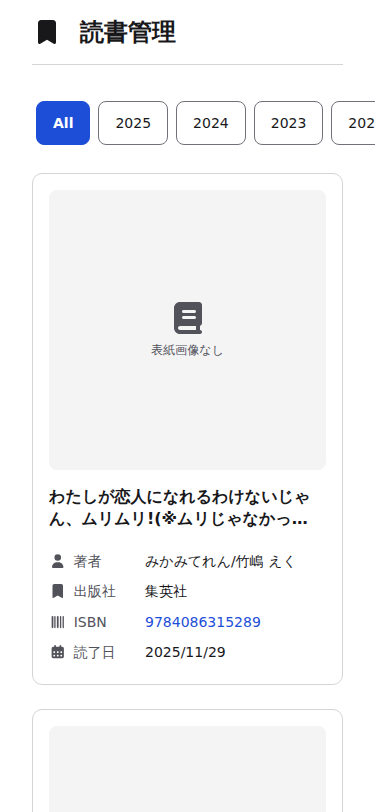
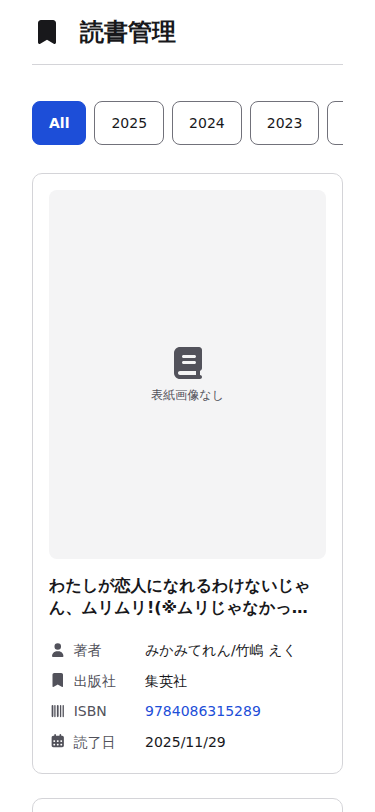
fix(ui): 書影の余白とモバイルの横スクロール破綻を修正する
書影: 枠の高さを固定して object-contain で収めていたため、書影の比率が
枠と一致しない分だけ上下左右に余白が出ていた。枠の高さ指定をやめ、
書影の実寸比率のまま幅いっぱいに表示する。切り抜きも余白も発生しない。

モバイル: 年フィルタを fieldset にした際、UA スタイルの
min-inline-size: min-content により fieldset が中身の幅（916px）まで
広がり、横スクロールがページ全体へ波及していた。390px 幅で
document.scrollWidth が 948px になり、ヘッダーやカードが見切れる。
min-w-0 を付与して枠内スクロールに封じ込める。

390px / 1440px で document.scrollWidth == innerWidth を確認済み。

Claude-Session: https://claude.ai/code/session_01Xr51mSbJJTB3eMJ4ezQyAr

diff --git a/src/components/molecules/BookCover/BookCover.tsx b/src/components/molecules/BookCover/BookCover.tsx
@@ -8,13 +8,15 @@ interface BookCoverProps {
   width: number;
   height: number;
   sizes?: string;
-  /** 画像を収める枠のクラス。高さはこちらで指定する。 */
+  /** 書影を収める枠のクラス。幅の制御はこちらで行う。 */
   frameClassName?: string;
   imageClassName?: string;
 }
 
-const baseFrameClass =
-  "relative flex w-full items-center justify-center overflow-hidden rounded-lg bg-app-surface-subtle";
+const baseFrameClass = "relative w-full overflow-hidden rounded-lg";
+// 読み込み失敗時は寸法が取れないため、枠の比率だけは仮に決める
+const fallbackFrameClass =
+  "flex aspect-3/4 items-center justify-center bg-app-surface-subtle";
 
 /**
  * 書影の表示。書名は隣接する見出しが読み上げるため alt="" の装飾画像として扱う。
@@ -37,7 +39,7 @@ export default function BookCover({
 
   if (hasError) {
     return (
-      <div className={frameClasses}>
+      <div className={[frameClasses, fallbackFrameClass].join(" ")}>
         <span className="flex flex-col items-center gap-2 text-app-muted">
           <FontAwesomeIcon icon={faBook} size="2x" aria-hidden />
           <span className="text-xs">表紙画像なし</span>
@@ -48,6 +50,11 @@ export default function BookCover({
 
   return (
     <div className={frameClasses}>
+      {/*
+       * 高さを固定して object-contain で収めると、書影の比率が枠と違うぶん
+       * 余白が出てしまう。枠の高さは指定せず、書影の実寸比率のまま
+       * 幅いっぱいに表示する（切り抜きも余白も発生しない）。
+       */}
       <Image
         src={src}
         alt=""
@@ -55,8 +62,7 @@ export default function BookCover({
         height={height}
         sizes={sizes}
         onError={() => setHasError(true)}
-        // 判型が異なる書影を cover で切り抜くと端が欠けるため contain で収める
-        className={`h-full w-full object-contain ${imageClassName ?? ""}`.trim()}
+        className={`h-auto w-full ${imageClassName ?? ""}`.trim()}
       />
     </div>
   );

diff --git a/src/components/molecules/YearFilter/YearFilter.tsx b/src/components/molecules/YearFilter/YearFilter.tsx
@@ -13,7 +13,7 @@ export default function YearFilter({
   availableYears,
 }: YearFilterProps) {
   return (
-    <section className="mb-6 w-full" aria-label="年度フィルター">
+    <section className="mb-6 w-full min-w-0" aria-label="年度フィルター">
       {/*
        * 以前は role="tablist" / role="tab" を使っていたが、対応する tabpanel も
        * 矢印キーによるロービングフォーカスもなく、支援技術に予告した操作方法が
@@ -23,7 +23,12 @@ export default function YearFilter({
        * モバイルでは 12 年分が縦に積み上がりファーストビューを占有していたため、
        * 狭い画面では横スクロール 1 行、sm 以上では折り返して中央寄せにする。
        */}
-      <fieldset className="m-0 border-0 p-0">
+      {/*
+       * fieldset は UA スタイルの min-inline-size: min-content により
+       * 中身より狭くならない。min-w-0 を外すと横スクロールが
+       * ページ全体に波及してレイアウトが破綻する。
+       */}
+      <fieldset className="m-0 min-w-0 border-0 p-0">
         <legend className="sr-only">読了年で絞り込み</legend>
         <div className="flex snap-x gap-2 overflow-x-auto px-1 py-1 sm:flex-wrap sm:justify-center sm:overflow-x-visible">
           {availableYears.map((year) => {

diff --git a/src/components/organisms/BookCard/BookCard.tsx b/src/components/organisms/BookCard/BookCard.tsx
@@ -28,7 +28,6 @@ export default function BookCard({ book }: BookCardProps) {
         width={350}
         height={466}
         sizes="(max-width: 640px) 100vw, (max-width: 1280px) 50vw, 350px"
-        frameClassName="h-[280px] sm:h-[340px]"
         imageClassName="transition-transform duration-500 ease-in-out group-hover:scale-105 motion-reduce:transform-none dark:brightness-90"
       />
       {/* タイトルの行数がカードごとに違うとメタ情報の縦位置がずれるため高さを揃える */}

diff --git a/src/components/organisms/BookDetails/BookDetails.tsx b/src/components/organisms/BookDetails/BookDetails.tsx
@@ -20,7 +20,7 @@ export default function BookDetails({ book }: BookDetailsProps) {
           src={book.thumbnailImage}
           width={350}
           height={500}
-          frameClassName="h-[420px] md:h-[500px] md:w-[350px]"
+          frameClassName="md:w-[350px]"
           imageClassName="dark:brightness-90"
         />
       </div>
